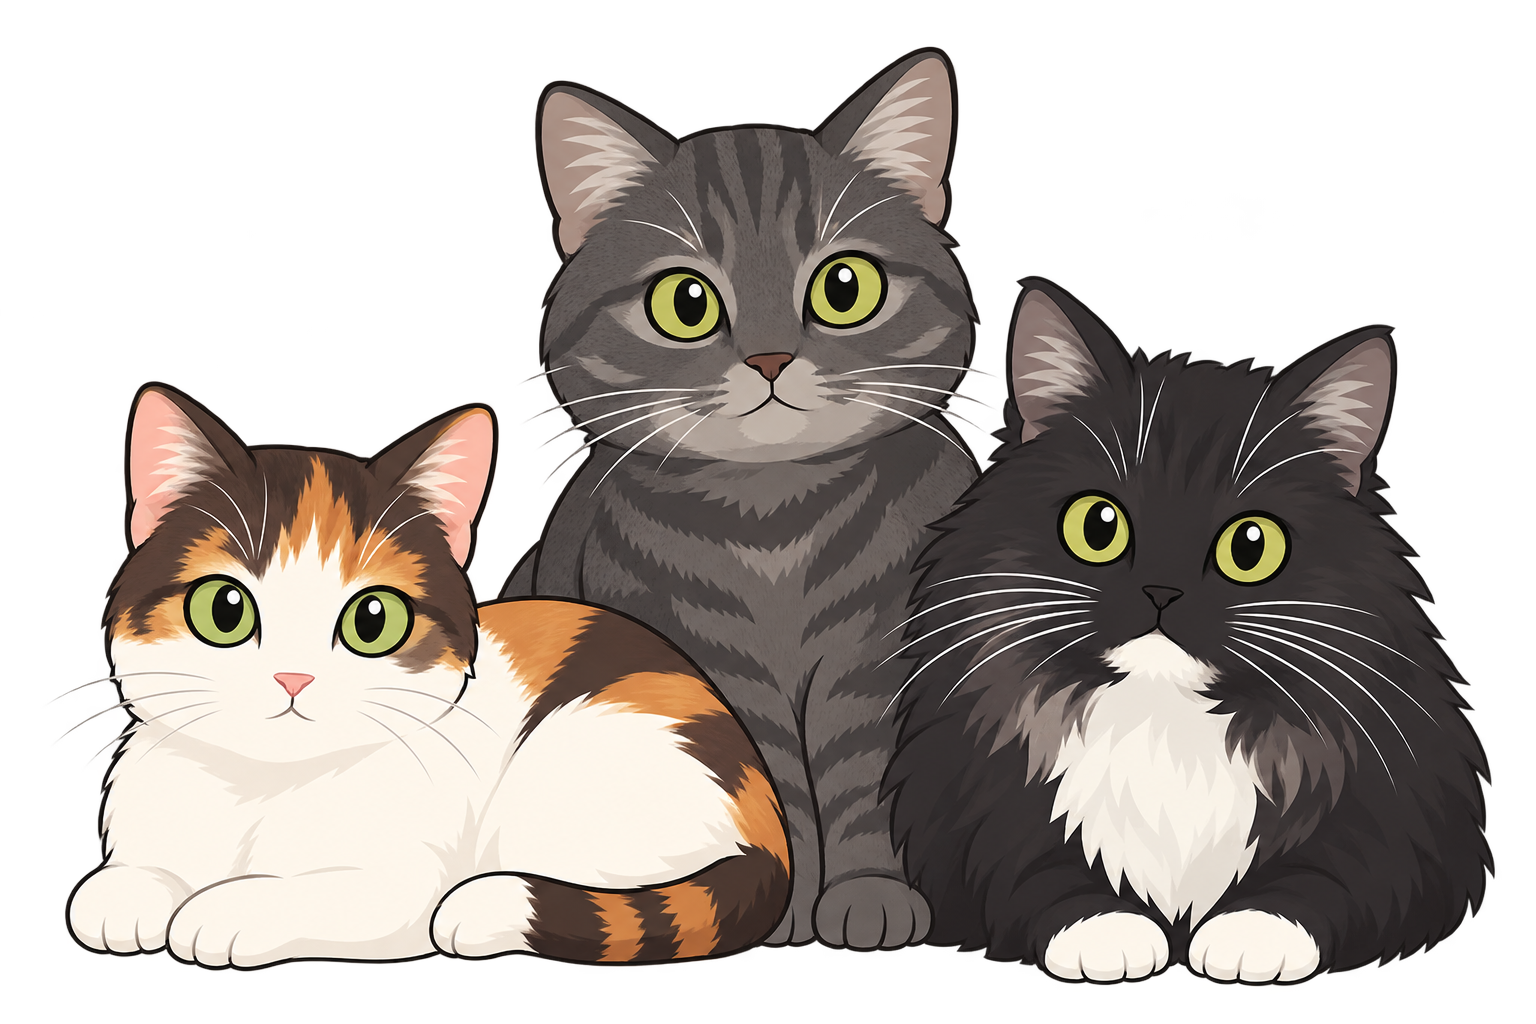
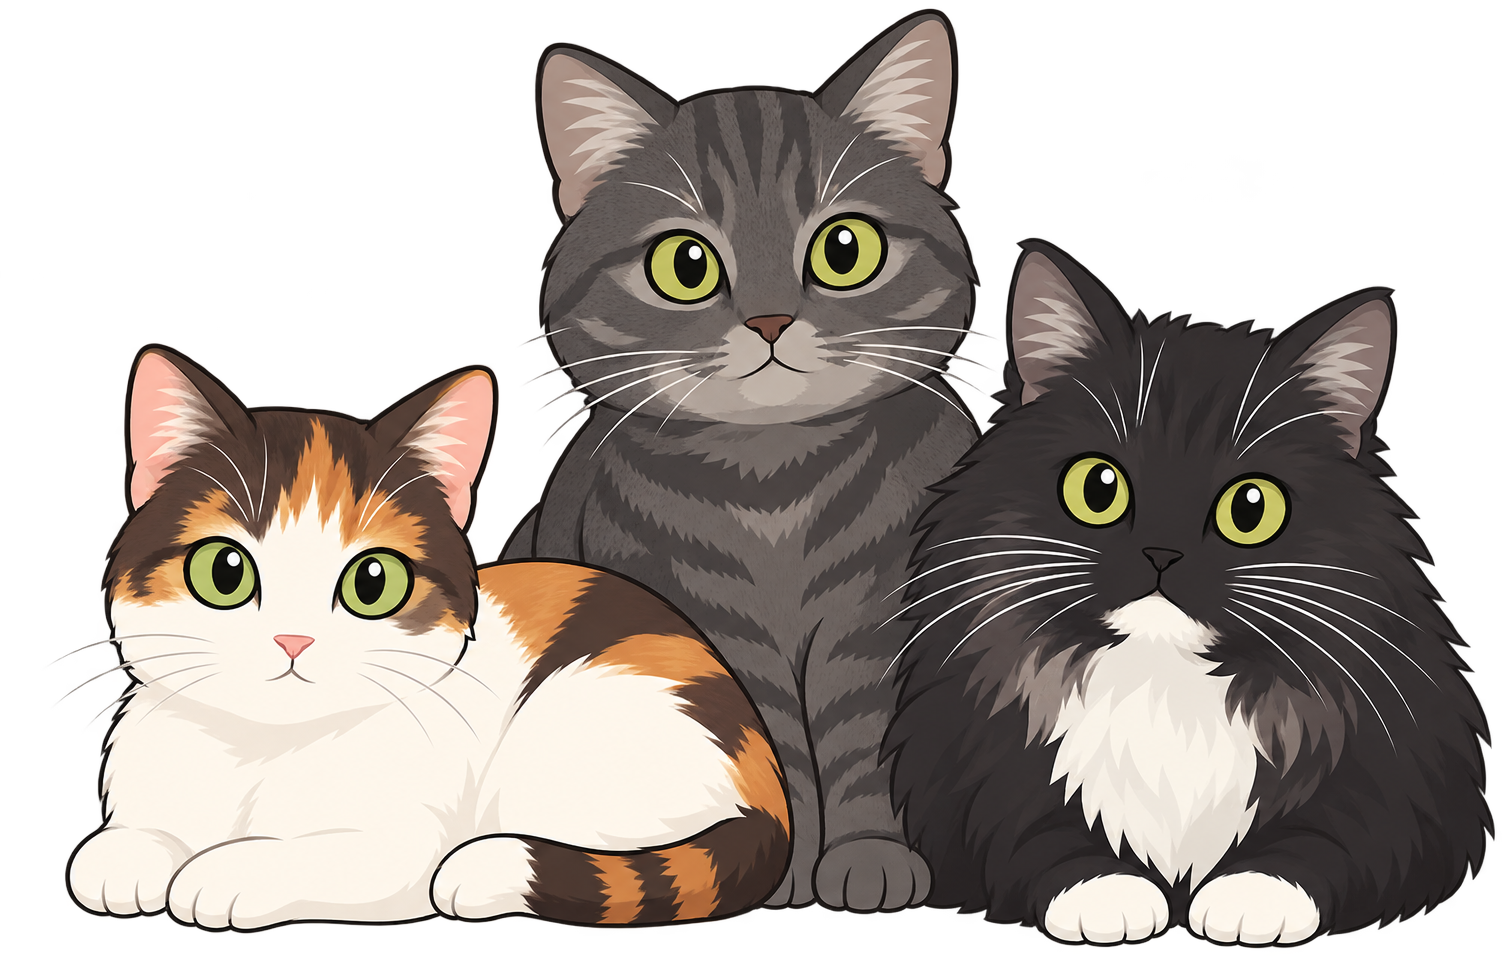
feat(about): align cutout cats flush onto the shelf line above Leidenschaft

Changed region(s): [[0.0306, 0.0, 1.0, 1.0]]

diff --git a/styles.css b/styles.css
@@ -599,7 +599,8 @@ h3{font-family:Jost,sans-serif;font-weight:500;font-size:24px;text-transform:upp
   grid-column:span 5;
   display:flex;
   flex-direction:column;
-  margin-top:8px;
+  position:relative;
+  margin-top:clamp(120px, 16vh, 180px);
   overflow:visible!important;
 }
 #ueber .about-profile-item{
@@ -631,7 +632,39 @@ h3{font-family:Jost,sans-serif;font-weight:500;font-size:24px;text-transform:upp
   overflow:visible!important;
 }
 
-/* === Cat Mom Easter Egg (Polaroid-Card) === */
+/* === Freigestelltes Katzen-Element auf oberer Trennlinie (Shelf) === */
+.cats-shelf-container{
+  position:absolute;
+  bottom:100%;
+  left:0;
+  width:100%;
+  display:flex;
+  justify-content:center;
+  align-items:flex-end;
+  margin-bottom:0;
+  padding-bottom:0;
+  pointer-events:none;
+  z-index:20;
+  line-height:0;
+  opacity:0;
+  transform:translateY(15px);
+  transition:opacity 0.35s ease, transform 0.35s cubic-bezier(0.16, 1, 0.3, 1);
+}
+.cats-shelf-img{
+  display:block;
+  height:clamp(120px, 16vh, 180px);
+  width:auto;
+  object-fit:contain;
+  object-position:bottom;
+  margin:0;
+  padding:0;
+  vertical-align:bottom;
+  pointer-events:none;
+  user-select:none;
+  filter:drop-shadow(0 6px 16px rgba(0,0,0,.1));
+}
+
+/* Trigger: "Cat Mom" */
 .cat-mom-trigger{
   position:relative;
   display:inline-block;
@@ -640,67 +673,22 @@ h3{font-family:Jost,sans-serif;font-weight:500;font-size:24px;text-transform:upp
   padding-bottom:2px;
   color:#1E1E1E;
   font-weight:600;
-  transition:color .2s ease,border-color .2s ease;
+  transition:color .2s ease, border-bottom-color .2s ease;
 }
 .cat-mom-trigger:hover,
 .cat-mom-trigger.active{
   color:#8A7A63;
   border-bottom-color:#8A7A63;
 }
-.cat-mom-card{
-  pointer-events:none;
-  position:absolute;
-  bottom:100%;
-  left:50%;
-  transform:translate(-50%,12px) rotate(0deg);
-  margin-bottom:12px;
-  width:192px;
-  border-radius:12px;
-  overflow:hidden;
-  box-shadow:0 25px 50px -12px rgba(0,0,0,.28),0 10px 20px -5px rgba(0,0,0,.15);
-  border:2px solid #FFFFFF;
-  background:#FFFFFF;
-  padding:6px;
-  opacity:0;
-  transition:all .3s cubic-bezier(.16,1,.3,1);
-  z-index:50;
-  box-sizing:border-box;
-}
-.cat-mom-trigger:hover .cat-mom-card,
-.group:hover .cat-mom-card,
-.cat-mom-trigger.active .cat-mom-card{
-  opacity:1;
+
+/* Hover- & Active-Zustand: Slide-Up bündig auf die Linie */
+#ueber .about-profile-col:has(.cat-mom-trigger:hover) .cats-shelf-container,
+#ueber .about-profile-col:has(.cat-mom-trigger.active) .cats-shelf-container,
+#ueber .about-profile-col:has(.cats-shelf-container:hover) .cats-shelf-container,
+.cats-shelf-container.show-cats{
+  opacity:1!important;
+  transform:translateY(0)!important;
   pointer-events:auto;
-  transform:translate(-50%,0) rotate(-2deg);
-}
-.cat-mom-card img{
-  width:100%;
-  height:128px;
-  object-fit:cover;
-  border-radius:8px;
-  display:block;
-}
-.cat-mom-card p{
-  font-size:11px!important;
-  color:#525252!important;
-  text-align:center!important;
-  margin-top:6px!important;
-  margin-bottom:2px!important;
-  font-family:'Cormorant Garamond',serif!important;
-  font-style:italic!important;
-  line-height:1.3!important;
-}
-@media(max-width:480px){
-  .cat-mom-card{
-    left:auto;
-    right:-8px;
-    transform:translateY(12px) rotate(0deg);
-  }
-  .cat-mom-trigger:hover .cat-mom-card,
-  .group:hover .cat-mom-card,
-  .cat-mom-trigger.active .cat-mom-card{
-    transform:translateY(0) rotate(-2deg);
-  }
 }
 
 /* Fähigkeiten → Magic UI Bento Grid */
@@ -1888,7 +1876,7 @@ h3{font-family:Jost,sans-serif;font-weight:500;font-size:24px;text-transform:upp
   }
   #ueber .about-profile-col{
     grid-column:span 1!important;
-    margin-top:0!important;
+    margin-top:clamp(110px, 15vh, 160px)!important;
   }
 }
 @media(max-width:880px){

diff --git a/index.html b/index.html
@@ -162,7 +162,12 @@
               </div>
 
               <!-- Rechter Bereich / Profil: Leidenschaft, Kreativität & Persönliches (col-span-5) -->
-              <div class="about-profile-col">
+              <div class="about-profile-col" id="about-profile-col">
+                <!-- Freigestelltes Katzen-Element oberhalb der Trennlinie zu "LEIDENSCHAFT" -->
+                <div class="cats-shelf-container" id="cats-shelf">
+                  <img src="assets/images/cats.png" alt="Katzen" class="cats-shelf-img">
+                </div>
+
                 <div class="about-profile-item border-t border-neutral-400/25 py-3">
                   <span class="about-profile-label">Leidenschaft</span>
                   <p class="about-profile-val">Wohnkultur, Freihandzeichnen &amp; Materialästhetik</p>
@@ -173,7 +178,7 @@
                 </div>
                 <div class="about-profile-item border-t border-neutral-400/25 py-3">
                   <span class="about-profile-label">Persönliches</span>
-                  <p class="about-profile-val">Vintage-Design, Altbau-Liebe &amp; <span class="cat-mom-trigger relative inline-block group cursor-pointer border-b border-dashed border-neutral-500/60 pb-0.5">Cat Mom<span class="cat-mom-card pointer-events-none absolute bottom-full left-1/2 -translate-x-1/2 mb-3 w-48 rounded-xl overflow-hidden shadow-2xl border-2 border-white bg-white p-1.5 opacity-0 translate-y-3 group-hover:opacity-100 group-hover:translate-y-0 group-hover:rotate-[-2deg] transition-all duration-300 ease-out z-50"><img src="assets/images/cats.png" alt="Katzen" class="w-full h-32 object-cover rounded-lg" /><p class="text-[11px] text-neutral-600 text-center mt-1.5 font-serif italic">The real project managers 🐾</p></span></span></p>
+                  <p class="about-profile-val">Vintage-Design, Altbau-Liebe &amp; <span class="cat-mom-trigger relative inline-block cursor-pointer border-b border-dashed border-neutral-500/60 pb-0.5" id="cat-mom-trigger">Cat Mom</span></p>
                 </div>
               </div>
             </div>

diff --git a/app.js b/app.js
@@ -1133,17 +1133,45 @@ initMarquee();renderDocs();renderProjects();renderSkills();initSkillsAnim();rend
   setTimeout(updateDesktopClearance, 50);
 })();
 
-/* === "Cat Mom" Easter-Egg: Tap support for touch devices === */
+/* === "Cat Mom" Easter-Egg: Shelf slide-up & touch support === */
 (function(){
   const trigger = document.querySelector('.cat-mom-trigger');
-  if(!trigger) return;
+  const shelf = document.getElementById('cats-shelf');
+  if(!trigger || !shelf) return;
+
+  function showShelf(){
+    shelf.classList.add('show-cats');
+    trigger.classList.add('active');
+  }
+  function hideShelf(){
+    shelf.classList.remove('show-cats');
+    trigger.classList.remove('active');
+  }
+
+  trigger.addEventListener('mouseenter', showShelf);
+  trigger.addEventListener('mouseleave', function(e){
+    // Keep visible if moving into the cats shelf itself
+    if(shelf.contains(e.relatedTarget)) return;
+    hideShelf();
+  });
+  shelf.addEventListener('mouseleave', function(e){
+    if(trigger.contains(e.relatedTarget)) return;
+    hideShelf();
+  });
+
   trigger.addEventListener('click', function(e){
     e.stopPropagation();
-    this.classList.toggle('active');
+    if(shelf.classList.contains('show-cats')){
+      hideShelf();
+    } else {
+      showShelf();
+    }
   });
+
   document.addEventListener('click', function(e){
-    if(!trigger.contains(e.target)){
-      trigger.classList.remove('active');
+    if(!trigger.contains(e.target) && !shelf.contains(e.target)){
+      hideShelf();
     }
   });
 })();
+

diff --git a/PROTOKOLL.md b/PROTOKOLL.md
@@ -72,11 +72,14 @@ Dieses Protokoll dokumentiert alle technischen, gestalterischen und funktionelle
       * **LEIDENSCHAFT:** Wohnkultur, Freihandzeichnen & Materialästhetik
       * **KREATIVITÄT:** Raumgefühl, Skizzieren & Szenografie
       * **PERSÖNLICHES:** Vintage-Design, Altbau-Liebe & [Cat Mom]
-* **Interaktives „Cat Mom“ Easter-Egg (Polaroid-Hover):**
+* **Interaktives „Cat Mom“ Easter-Egg (Freigestellte Katzen bündig auf Regal-Linie):**
   * Das Stichwort „Cat Mom“ ist dezent gestrichelt unterstrichen und dient als interaktiver Trigger (`cursor: pointer`).
-  * **Polaroid-Card (`z-index: 50`):** Erscheint beim Hovern (bzw. bei mobilem Antippen) mit einer sanften Drehung (`rotate(-2deg)`), weichem Schatten und weißem Polaroid-Rahmen oberhalb des Textes.
-  * **Bild:** Integriert [`assets/images/cats.png`](file:///C:/Users/eeraj/Documents/PROJEKTE/Schabnam%20Portfolio/schabnam-portfolio-site/assets/images/cats.png) mit `object-fit: cover`.
-  * **Signatur:** Feine handschriftlich-typografische Notiz im unteren Bildrand: *„The real project managers 🐾“*.
+  * **Exakte Verankerung an der Linie:** Die freigestellten Katzen (`cats.png`, ohne Hintergrund und transparent auf den exakten Pfoten-Abschluss getrimmt) sitzen in [`.cats-shelf-container`](file:///C:/Users/eeraj/Documents/PROJEKTE/Schabnam%20Portfolio/schabnam-portfolio-site/styles.css) mit `position: absolute; bottom: 100%; left: 0; width: 100%; display: flex; justify-content: center; align-items: flex-end; margin-bottom: 0;` bündig direkt auf der oberen horizontalen Haarlinie oberhalb von „LEIDENSCHAFT“.
+  * **Skalierung & Bild:** `height: clamp(120px, 16vh, 180px); width: auto; object-fit: contain; object-position: bottom;`.
+  * **Slide-Up Bewegung:**
+    * *Ruhezustand:* `opacity: 0; transform: translateY(15px); pointer-events: none; transition: opacity 0.35s ease, transform 0.35s cubic-bezier(0.16, 1, 0.3, 1);`.
+    * *Hover/Aktivierung über „Cat Mom“:* `opacity: 1; transform: translateY(0);` — die Katzen gleiten geschmeidig nach oben und rasten exakt auf der Haarlinie ein.
+  * **Touch-Unterstützung:** Antippen auf mobilen Endgeräten schaltet das Katzen-Element ebenfalls flüssig ein und aus.
 
 ---
 
